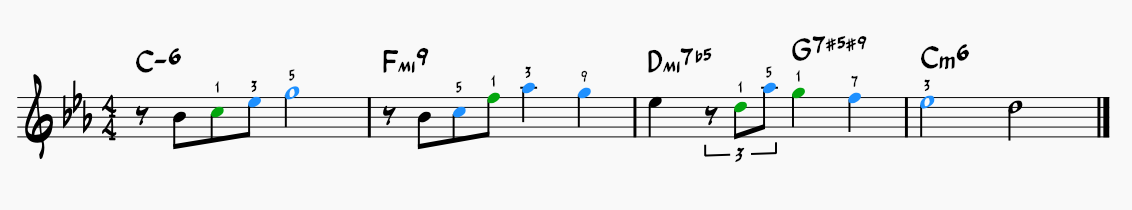
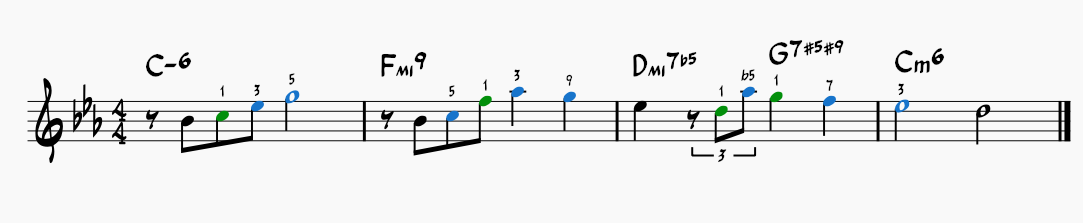
Readme and demos

diff --git a/README.md b/README.md
@@ -1,18 +1,26 @@
 # Solo Analyzer plugin for MuseScore 3.x
-*Solo Analyzer plugin for MuseScore 3.x* will highlight key notes in a Solo score. Important notes are the one defined in chord palyed . It uses the *Chord Symbols* to identify those notes.
+*Solo Analyzer plugin for MuseScore 3.x* will highlight key notes in a Solo score.
 
-This basic version has no User Interface. It will apply to whatever is selected. With the pre-defined colors.
+![SoloAnalser in action](/demo/soloanalyzer-demo.png)
 
-## New in 1.2.0
-Only the notes defined by the chord will be highlighted, using their label in the chord. E.g. the 6th will be higglighted and labelled "6" in a "G-6" chord, "13" in "Cadd13" chord.
+It comes in 2 flavours:
+- **A plugin without interaction** : it colours and names the selected note automatically without manual intervention,
+- **An interactive plugin** : you can select the options for the solo analysing and rendering. It acts also as a default behaviour management for the non-interactive plugin
 
-## What's next ?
-An optional interactive plugin where the behaviour of the plugin could be fine-tuned.
+Important notes are the one defined in chord palyed . It uses the *Chord Symbols* to identify those notes.
+
+## New in 1.3.0
+- Differents level of colouring and naming the notes: none, notes defined by the chord, not present in the scale.
+- New optional note name placement: at _Lyrics_ level.
+- Interactive mode for managing the default behaviour of the non-interactive plugin
+
+## Download ##
+Download the [last stable version](https://github.com/lgvr123/musescore-soloanalyser/releases)
 
 ## Installation
 * If using MuseScore version 3 then download the plugin and unzip it.
 * Install using the instructions in the MuseScore 3.x Handbook, which typically involves copying the QML file to the local MuseScore Plugin directory.
-* Open MuseScore and navigate to 'Plugins' -> 'Plugin Manager' to enable the plugin. Tick the box against 'alternatefingering' and apply with 'OK'.
+* Open MuseScore and navigate to 'Plugins' -> 'Plugin Manager' to enable both plugins. Tick the box against 'soloanalyser' and ''soloanalyser-interactive' and apply with 'OK'.
 
 
 ## IMPORTANT
